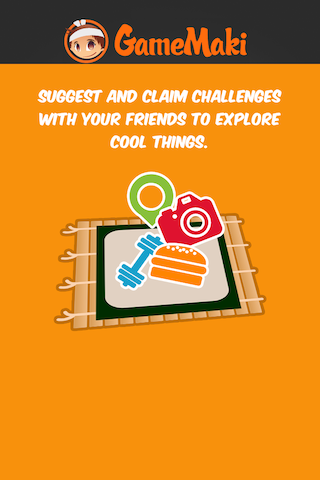
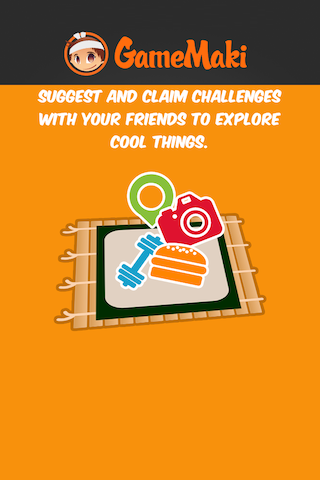
Home screen update

Changed region(s): [[0.0, 0.0312, 1.0, 0.1875]]

diff --git a/gamemaki/HomeController.m b/gamemaki/HomeController.m
@@ -67,30 +67,32 @@
     //[super viewWillAppear:NO];
     //[super viewDidAppear:NO];
     
+	[self.view setBackgroundColor:[UIColor colorWithPatternImage:[UIImage imageNamed:@"Default_2nd.png"]]];
+
     self.navigationController.navigationBar.hidden = YES;
     
     _fbLoginBtn = [UIButton buttonWithType:UIButtonTypeRoundedRect];
-    [_fbLoginBtn setTitle:@"Login" forState:UIControlStateNormal];
+    [_fbLoginBtn setTitle:@"Login with your Facebook" forState:UIControlStateNormal];
     [_fbLoginBtn addTarget:self action:@selector(fbLoginBtnClick:) forControlEvents:UIControlEventTouchUpInside];
     [_fbLoginBtn sizeToFit];
-    _fbLoginBtn.top = 20;
+    _fbLoginBtn.top = 400;
     _fbLoginBtn.left = floor(self.view.width/2 - _fbLoginBtn.width/2);
     [self.view addSubview:_fbLoginBtn];
     
     _loadingLabel = [[[TTStyledTextLabel alloc] initWithFrame:self.view.bounds] autorelease];
     _loadingLabel.font = [UIFont  boldSystemFontOfSize:24];
     _loadingLabel.text = [TTStyledText textFromXHTML:@"loading..." lineBreaks:YES URLs:YES];
-    _loadingLabel.top = 60;
-    _loadingLabel.left = 100;
+    _loadingLabel.top = 400;
+    _loadingLabel.left = floor(self.view.width/2 - _loadingLabel.width/2);
     [self.view addSubview:_loadingLabel];
     
-    UIButton* cameraOpenBtn = [UIButton buttonWithType:UIButtonTypeRoundedRect];
-    [cameraOpenBtn setTitle:@"Take Photo" forState:UIControlStateNormal];
-    [cameraOpenBtn addTarget:self action:@selector(cameraOpenClick:) forControlEvents:UIControlEventTouchUpInside];
-    [cameraOpenBtn sizeToFit];
-    cameraOpenBtn.top = 100;
-    cameraOpenBtn.left = floor(self.view.width/2 - cameraOpenBtn.width/2);
-    [self.view addSubview:cameraOpenBtn];
+//    UIButton* cameraOpenBtn = [UIButton buttonWithType:UIButtonTypeRoundedRect];
+//    [cameraOpenBtn setTitle:@"Take Photo" forState:UIControlStateNormal];
+//    [cameraOpenBtn addTarget:self action:@selector(cameraOpenClick:) forControlEvents:UIControlEventTouchUpInside];
+//    [cameraOpenBtn sizeToFit];
+//    cameraOpenBtn.top = 100;
+//    cameraOpenBtn.left = floor(self.view.width/2 - cameraOpenBtn.width/2);
+//    [self.view addSubview:cameraOpenBtn];
 }
 
 /**
